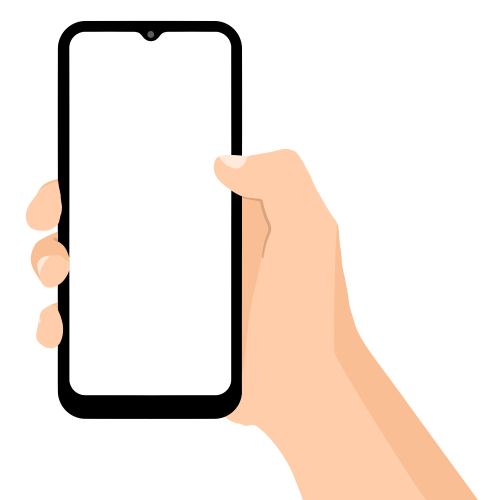
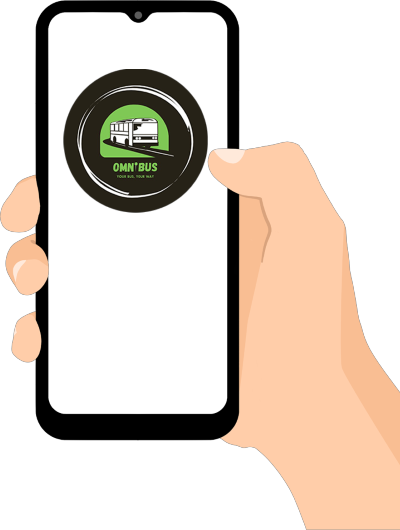
some bug fixed

diff --git a/lib/welcome/carousel_elements/first.dart b/lib/welcome/carousel_elements/first.dart
@@ -24,18 +24,18 @@ class First extends StatelessWidget {
                 
               ),
             ),
-            child: Container(
-              width: 75,
-              height: 75,
-              decoration: BoxDecoration(
-                borderRadius: BorderRadius.circular(50),
-                image: DecorationImage(
-                    image: AssetImage(
-                  'images/omnibus_logo.jpg',
-                )),
-              ),
-            ),
+
+
+
+
+
+
+
           ),
+
+
+
+          
         ),
 
 

diff --git a/lib/welcome/carousel_elements/third.dart b/lib/welcome/carousel_elements/third.dart
@@ -23,17 +23,10 @@ class Third extends StatelessWidget {
                 fit: BoxFit.contain,
               ),
             ),
-            child: Container(
-              width: 75,
-              height: 75,
-              decoration: BoxDecoration(
-                borderRadius: BorderRadius.circular(50),
-                image: DecorationImage(
-                    image: AssetImage(
-                  'images/omnibus_logo.jpg',
-                )),
-              ),
-            ),
+
+
+
+
           ),
         ),
 

diff --git a/lib/welcome/carousel_elements/second.dart b/lib/welcome/carousel_elements/second.dart
@@ -23,17 +23,9 @@ class Second extends StatelessWidget {
                 fit: BoxFit.contain,
               ),
             ),
-            child: Container(
-              width: 75,
-              height: 75,
-              decoration: BoxDecoration(
-                borderRadius: BorderRadius.circular(50),
-                image: DecorationImage(
-                    image: AssetImage(
-                  'images/omnibus_logo.jpg',
-                )),
-              ),
-            ),
+
+
+
           ),
         ),
 
